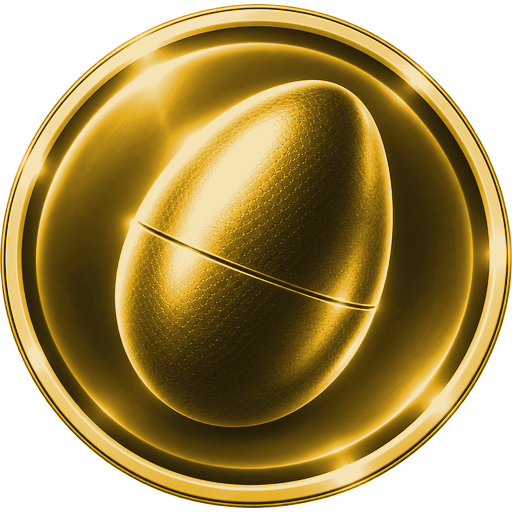
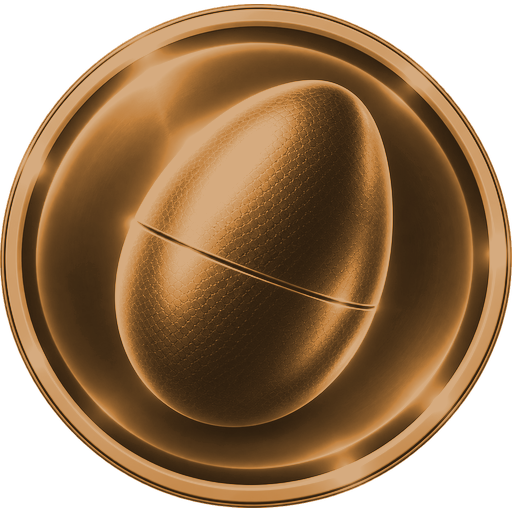
Add files via upload
Gold/bronze

diff --git a/index.html b/index.html
@@ -10,7 +10,7 @@
 <link rel="manifest" href="manifest.webmanifest">
 <link rel="apple-touch-icon" href="icon-192.png">
 <title>Pocket Handpan</title>
-<!-- v50: gold handpan matched to gold logo/layer icons; based on v48 -->
+<!-- v51: gold handpan matched to gold logo/layer icons; based on v48 -->
 <style>
 :root{color-scheme:dark}
 *{box-sizing:border-box}
@@ -69,7 +69,7 @@ body{min-height:100dvh;padding:max(env(safe-area-inset-top),12px) 14px max(env(s
 @media(max-width:520px){.settings{width:100%}.settingsPanel{width:100%}.control{grid-template-columns:68px minmax(90px,1fr) 40px}}
 
 
-/* v50 unified bright-gold visual treatment */
+/* v51 unified bright-gold visual treatment */
 .pan{
   background:
     radial-gradient(circle at 31% 18%,rgba(255,248,196,.92) 0 4%,rgba(255,220,99,.48) 10%,transparent 29%),
@@ -129,6 +129,68 @@ body{min-height:100dvh;padding:max(env(safe-area-inset-top),12px) 14px max(env(s
     inset 5px 6px 10px rgba(255,235,166,.32) !important;
 }
 .label{color:#fff0c1 !important}
+
+
+/* v51 — reference bronze-gold palette sampled from supplied handpan photo */
+.pan{
+  background:
+    radial-gradient(circle at 31% 17%,rgba(255,224,153,.90) 0 5%,rgba(230,177,90,.44) 14%,transparent 31%),
+    radial-gradient(circle at 73% 68%,rgba(206,139,52,.22),transparent 37%),
+    radial-gradient(circle at 48% 49%,#c99852 0%,#b47b35 35%,#855623 68%,#4a2e13 100%) !important;
+  border-color:#b67d39 !important;
+  box-shadow:
+    inset 0 0 0 2px #d6a15a,
+    inset 0 0 46px rgba(245,198,119,.26),
+    inset 0 0 90px rgba(63,37,13,.42),
+    0 0 14px rgba(176,119,48,.10) !important;
+}
+.pan::before{
+  opacity:.30 !important;
+  mix-blend-mode:soft-light !important;
+  filter:contrast(.98) saturate(.72) brightness(1.08) sepia(.10) !important;
+}
+.pan::after{
+  border-color:rgba(229,181,104,.44) !important;
+  box-shadow:inset 0 0 0 1px rgba(83,48,18,.50),inset 0 0 20px rgba(66,38,14,.22) !important;
+}
+.note{
+  background:
+    radial-gradient(ellipse at 68% 70%,rgba(238,193,122,.28) 0 13%,transparent 49%),
+    radial-gradient(ellipse at 34% 30%,rgba(71,42,16,.42) 0 8%,rgba(102,61,22,.25) 31%,rgba(169,111,47,.14) 62%,rgba(221,169,94,.15) 100%) !important;
+  box-shadow:
+    inset 6px 8px 14px rgba(64,37,13,.46),
+    inset -6px -8px 14px rgba(236,191,119,.22),
+    inset 0 0 0 1px rgba(240,204,147,.09),
+    0 1px 3px rgba(0,0,0,.18) !important;
+}
+.note::before{
+  background:
+    radial-gradient(ellipse at 67% 70%,rgba(241,194,118,.30) 0 8%,transparent 37%),
+    radial-gradient(ellipse at 50% 50%,#4b2e12 0 31%,#6e4318 53%,#9b6229 75%,#c78e49 100%) !important;
+  box-shadow:
+    inset 5px 6px 10px rgba(54,31,10,.62),
+    inset -5px -6px 10px rgba(235,189,117,.24),
+    inset 0 0 0 1px rgba(241,206,149,.10),
+    0 1px 2px rgba(0,0,0,.18) !important;
+}
+.note.ding{
+  background:
+    radial-gradient(ellipse at 64% 68%,rgba(239,194,121,.29) 0 15%,transparent 48%),
+    radial-gradient(ellipse at 34% 30%,rgba(72,42,15,.40) 0 9%,rgba(105,63,22,.25) 33%,rgba(170,111,46,.14) 65%,rgba(222,169,93,.14) 100%) !important;
+  box-shadow:
+    inset 8px 10px 20px rgba(60,34,11,.49),
+    inset -8px -10px 20px rgba(237,192,119,.23),
+    inset 0 0 0 1px rgba(241,205,148,.09),
+    0 2px 5px rgba(0,0,0,.20) !important;
+}
+.note.ding::before{
+  background:
+    radial-gradient(ellipse at 35% 24%,#f1cf93 0 4%,#d5a35d 15%,#b67d39 39%,#7b4b1c 67%,#42270e 100%) !important;
+  box-shadow:
+    inset -5px -7px 10px rgba(49,27,8,.46),
+    inset 5px 6px 10px rgba(239,197,129,.27) !important;
+}
+.label{color:#f2d6a5 !important}
 
 </style>
 </head>
